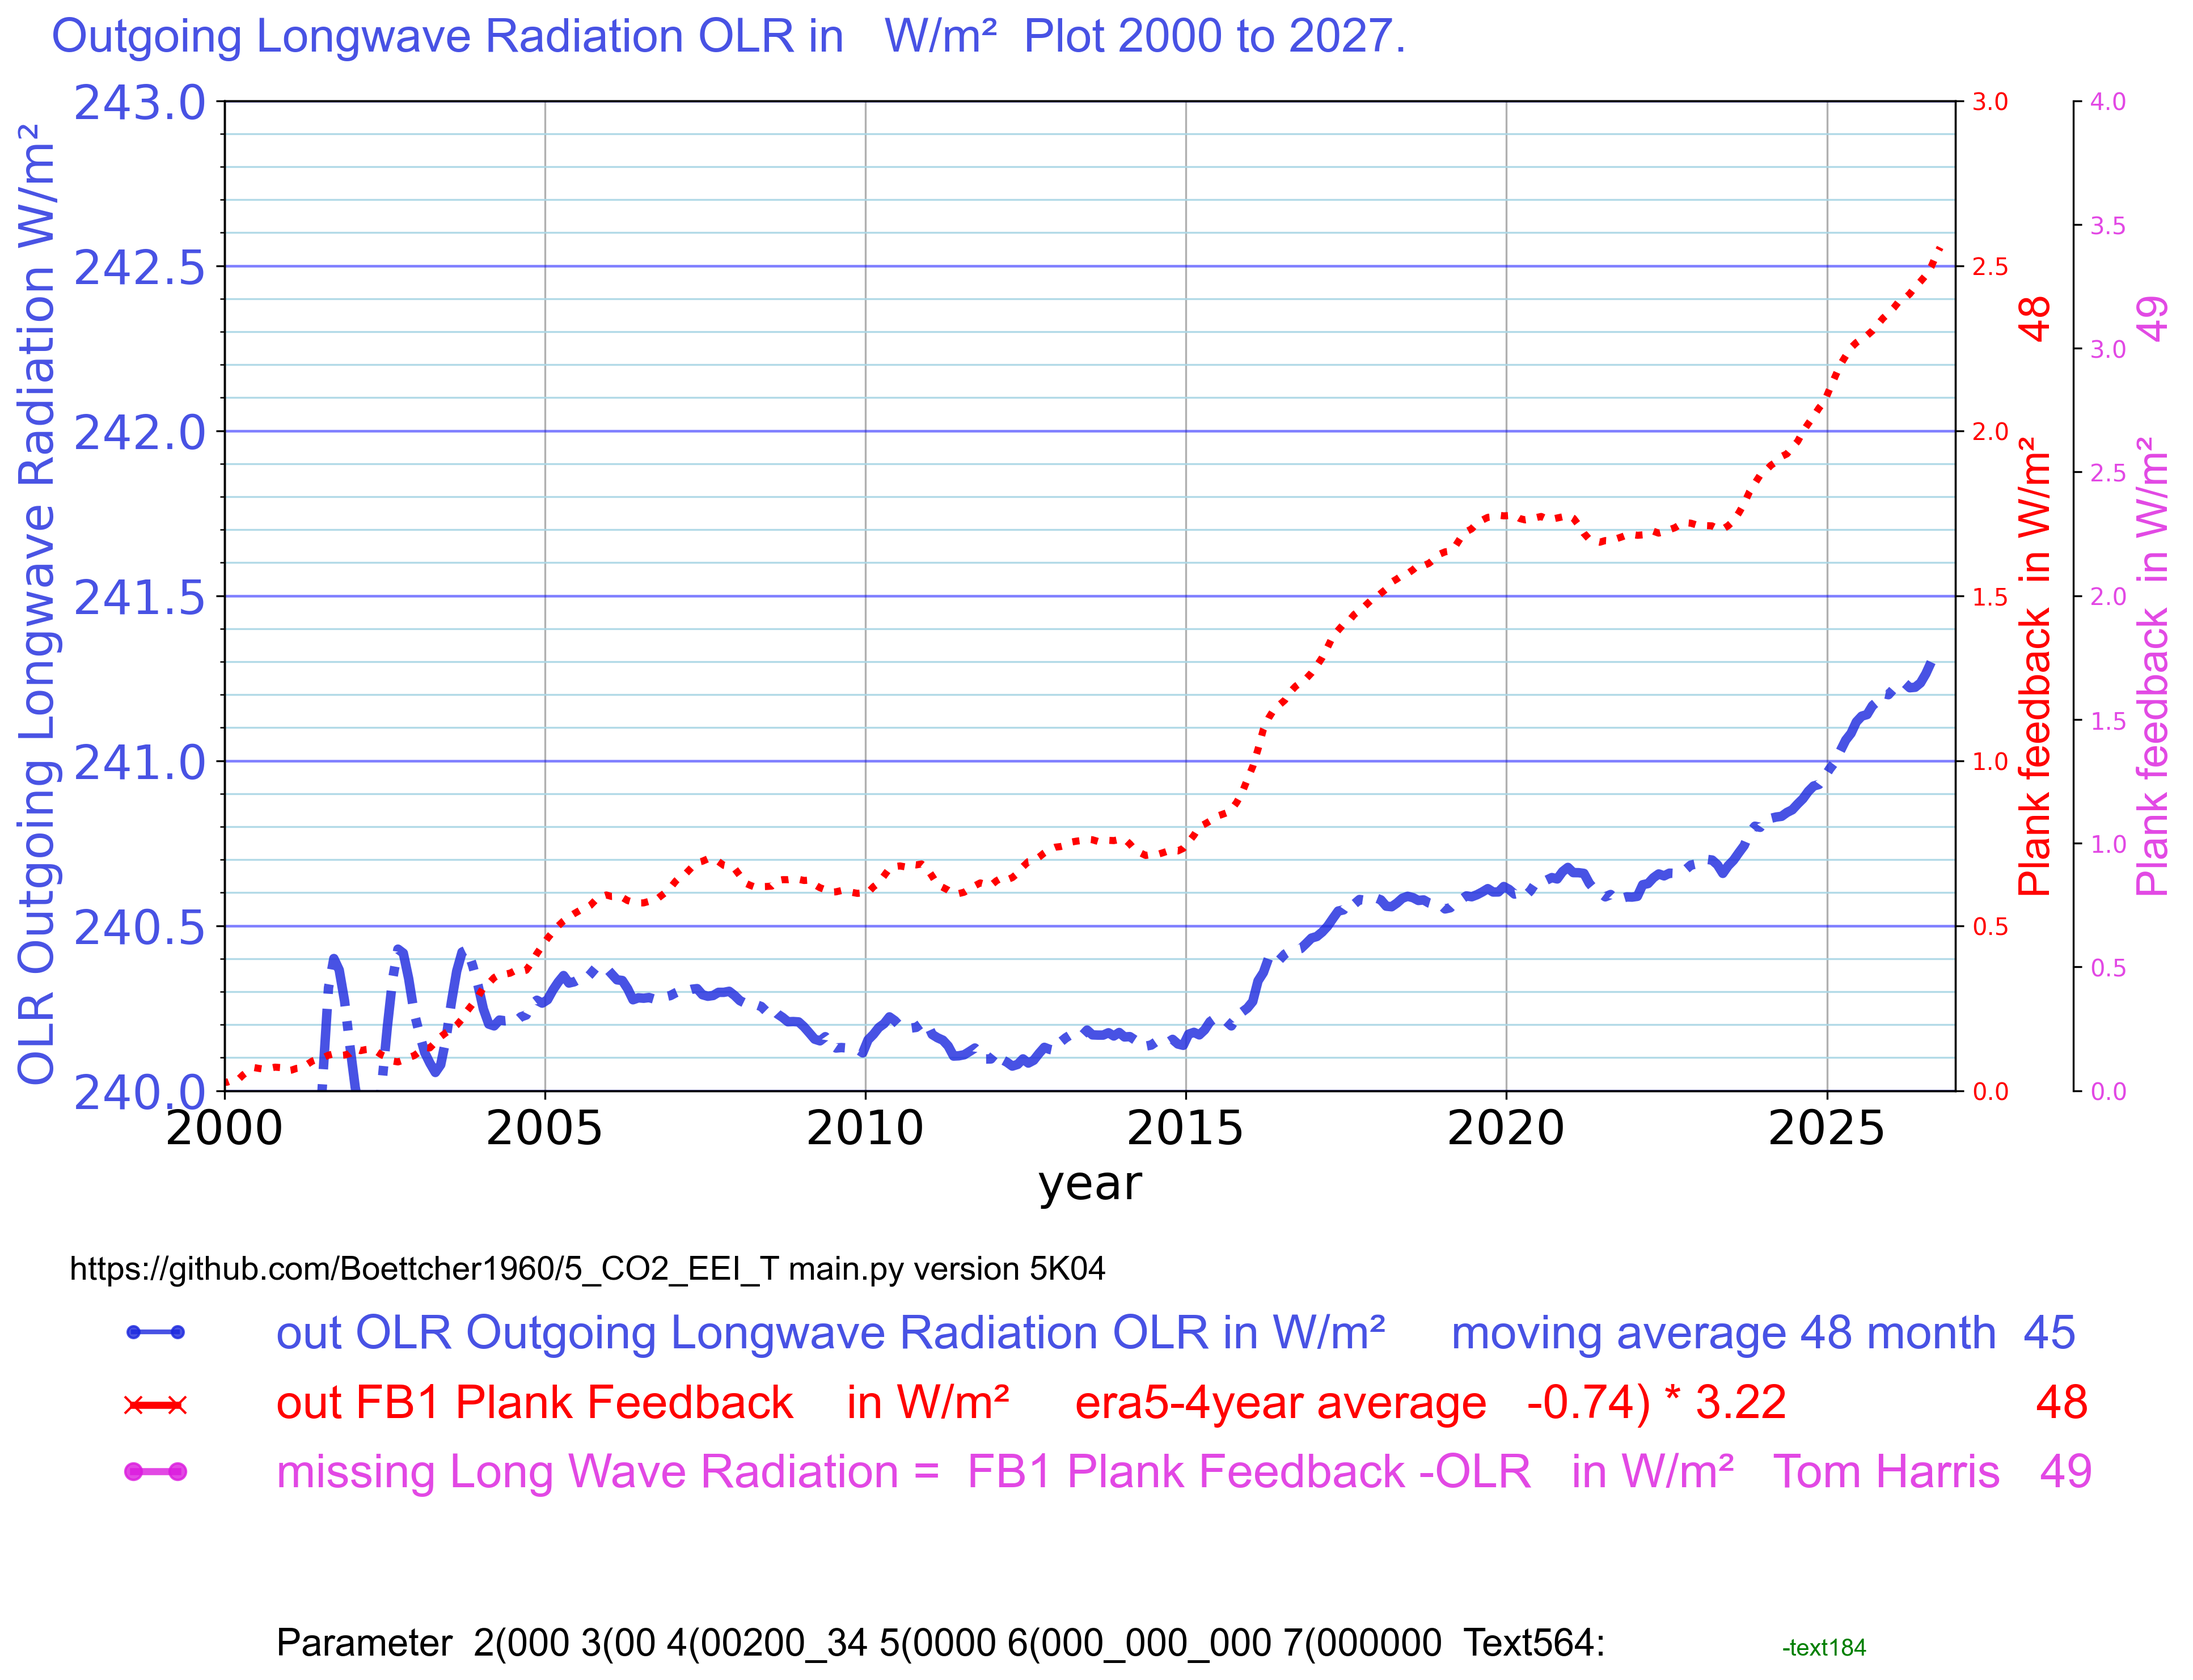
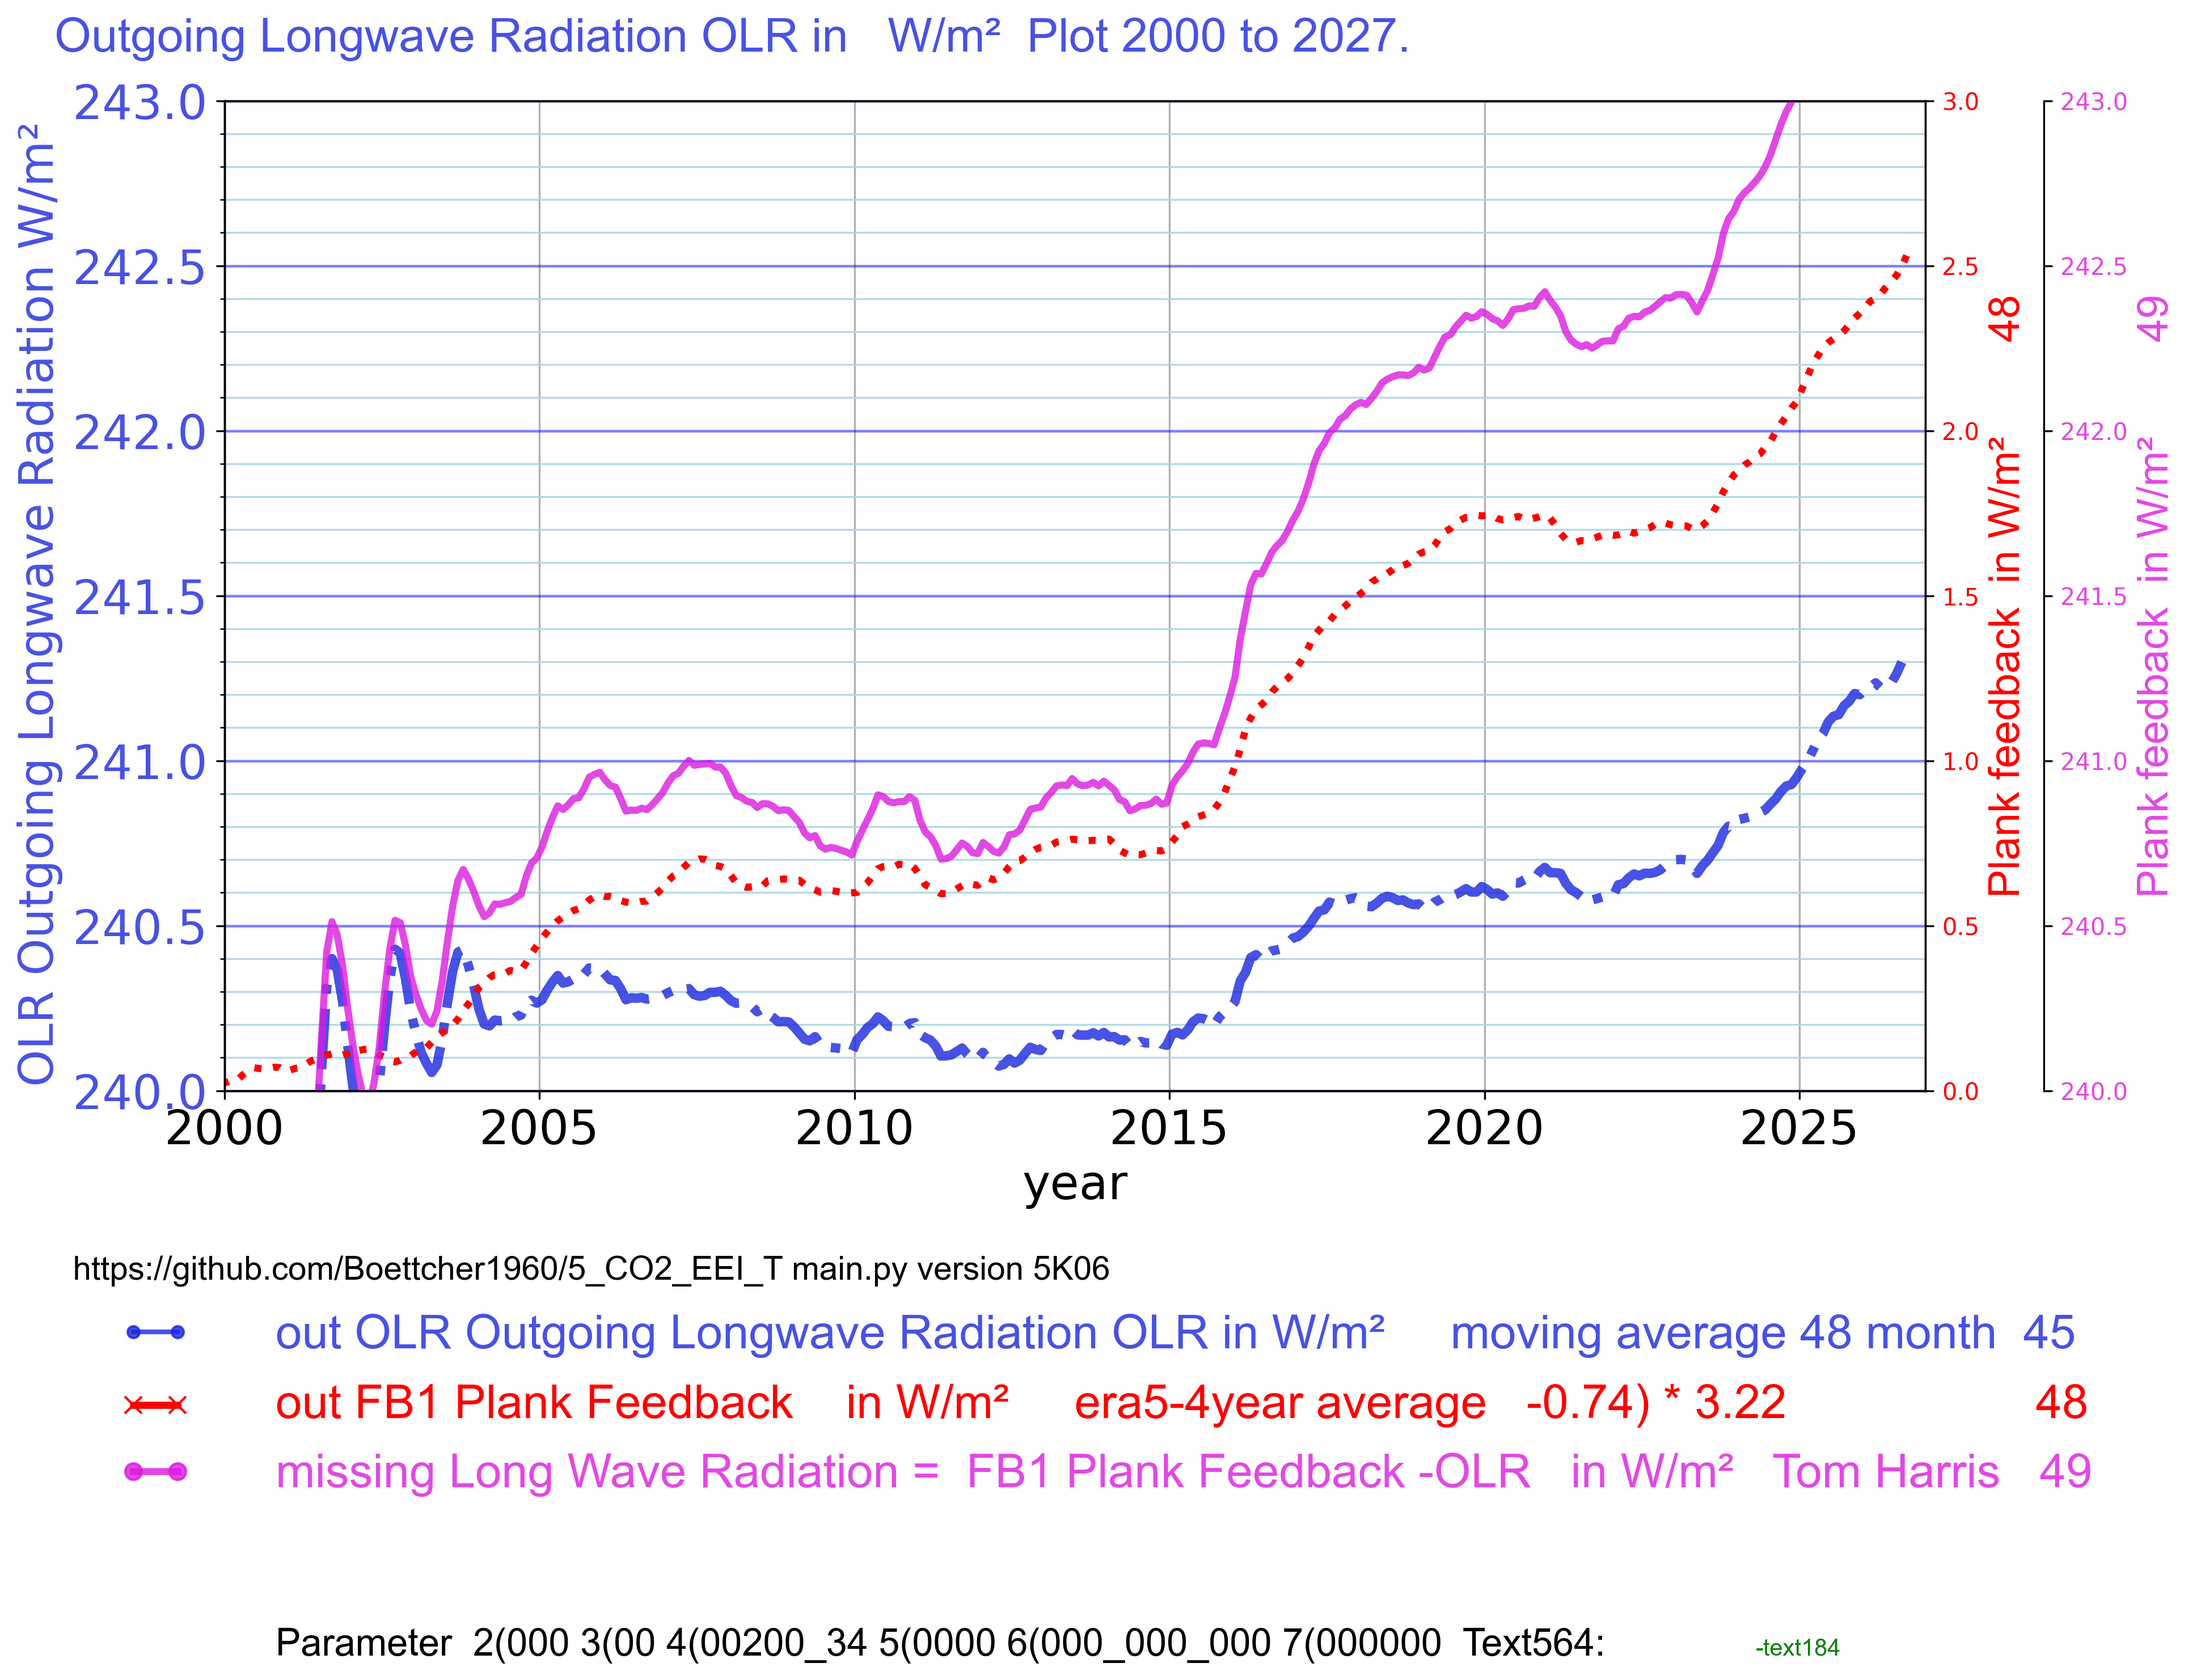
k06

diff --git a/plotting.py b/plotting.py
@@ -1092,14 +1092,12 @@ def plot_9_create_all_plots(ax1, data):
 
            if plank48 > 2:
               plot8_right_y_axe_for_T_48(ax48,0) # 
-    if plot49 > 0 : # 74.4  ax49.plot(data['plank5']["decimal_year"], ((data['plank5']["temp_average"] - 0.74) * 3.22) , '-', 
-            # ax49.plot(data['plank5']["decimal_year"], ((data['plank5']["temp_average"] - 0.74) * 3.22) + (data['plank4']["temp_average"]   )  
-            # ax49.plot(data['plank5']["decimal_year"], ((data['plank5']["temp_average"] - 0.74) * 3.22) - (data['ceres_45']["OLR48"]/1000   )
-            #  ax49.plot(data['plank5']["decimal_year"], ((data['plank5']["temp_average"] - 0.74) * 3.22) + (data['plank4']["temp_average"]   )
-            # # ax49.plot(data['plank5']["decimal_year"], ((data['plank5']["temp_average"] - 0.74) * 3.22) - (data['ceres_45']["OLR48"]/1000   )
+    if plot49 > 0 : # 
+            #  ax49.plot(data['plank5']["decimal_year"], ((data['plank5']["temp_average"] - 0.74) * 3.22) + (data['plank4']["temp_average"]   )          
+            #                         , '-', label="T plank49", color=c49, linewidth=3)
+            #
             ax49 = ax1.twinx()
-            # ax49.plot(data['plank5']["decimal_year"], ((data['plank5']["temp_average"] - 0.74) * 3.22) - (data['ceres_45']["OLR48"]/1000   )
-            ax49.plot(data['plank5']["decimal_year"], ((data['plank5']["temp_average"] - 0.74) * 3.22) + (data['plank4']["temp_average"]   )          
+            ax49.plot(data['plank5']["decimal_year"], data['plank5']["FB1_plus_OLR48"]            
                          , '-', label="T plank49", color=c49, linewidth=3)
             ax49.tick_params(axis="y", labelcolor=c49)
             ax49.set_ylim(y_49min, y_49max)

diff --git a/main.py b/main.py
@@ -1,5 +1,5 @@
 # main.py
-v = "5K05" # with AI 
+v = "5K06" # with AI 
 # https://github.com/Boettcher1960/5_CO2_EEI_T
 # ocean stratification https://bsky.app/profile/thomas-boettcher.bsky.social/post/3mj7zx7fzsc26
 # https://drtomharris.substack.com/p/the-great-decoupling-how-ocean-stratification
@@ -339,7 +339,12 @@ def load_plot_data():
     if plank48 > 0: #  pd.read_csv("work/_48_era5_in.csv")  _48monthly_era5_in.csv 
         data['plank4'] = pd.read_csv("work/_48monthly_era5_in.csv")
     if plot49 > 0: #  pd.read_csv("work/_48_era5_in.csv")
-        data['plank5'] = pd.read_csv("work/_48_era5_in.csv")
+        create49_fb1_olr48_sum(
+          "work/_49_in_plank_FB1.csv", # plank FB1 in 
+          "work/_49_OLR_48month_2026_08.csv", # outgoing longwave radiation OLR
+          "work/_49_FB1_plus_OLR48.csv", # 
+         )
+        data['plank5'] = pd.read_csv("work/_49_FB1_plus_OLR48.csv")
     # part 5.2 plot52_delta_CO2_red_bars
     # part 5.3 plot53_CO2_orange2025
     # part 5.4 plot54_Glen_delta_on
@@ -432,13 +437,6 @@ def main():
 
     # Process CERES data
     process_ceres_data()
-
-    if plot49 > 0:
-       create49_fb1_olr48_sum(
-          "work/_49_in_plank_FB1.csv",
-          "work/_49_OLR_48month_2026_08.csv",
-          "work/_49_FB1_plus_OLR48.csv",
-       )
     
     # Setup figure
     fig, ax1 = setup_figure(scale_mode)

diff --git a/config.py b/config.py
@@ -191,8 +191,8 @@ y_47min = 0.294 # albedo in %
 y_47max = 0.286 # albedo in %
 y_48min = 0
 y_48max = 3
-y_49min = 0
-y_49max = 4
+y_49min = 240
+y_49max = 243
 
 y_52min = 0 # plot52_delta_CO2_red_bars
 y_52max = 4 # plot52_delta_CO2_red_bars
